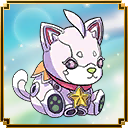
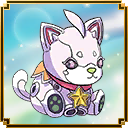
error in mag entry

diff --git a/SymbolPrettification/PrettyImages.py b/SymbolPrettification/PrettyImages.py
@@ -15,7 +15,7 @@ def main():
     background = Image.open("SymbolPrettification/6StarWep.png")
     soulBase = Image.new('RGBA',(128,128),(0,0,0,0))
     FDCircle = Image.open("SymbolPrettification/FDCircle.png")
-    frame = Image.open("SymbolPrettification/FrameT.png").resize((128,128))
+    frame = Image.open("SymbolPrettification/FrameT.png").resize((128,128),Image.LANCZOS)
 
     for entries in soulImages:
         soulBG = soulBase.copy()
